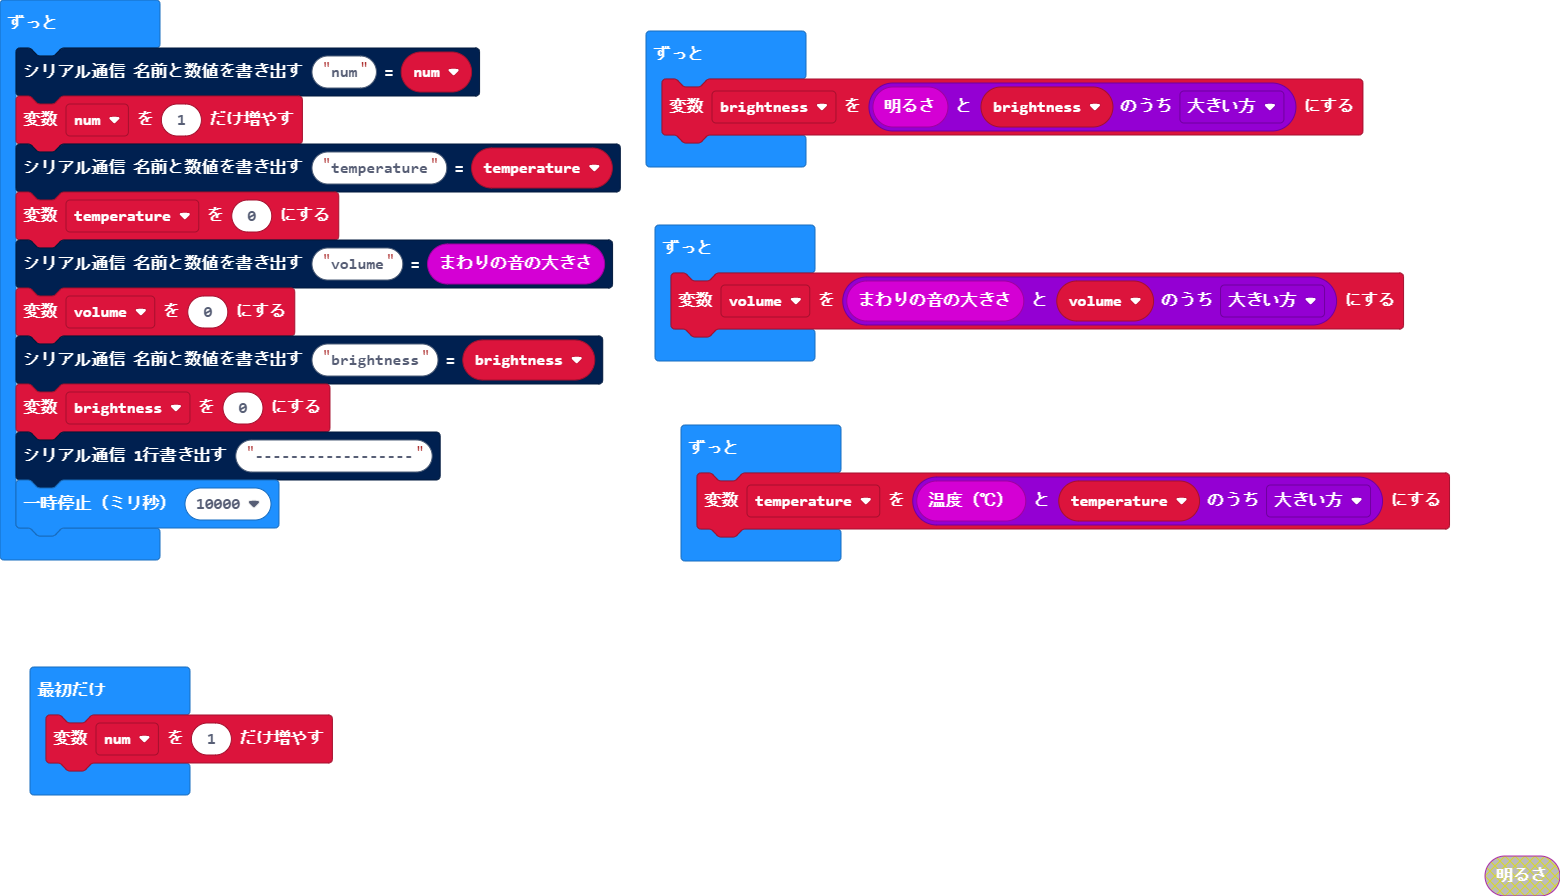
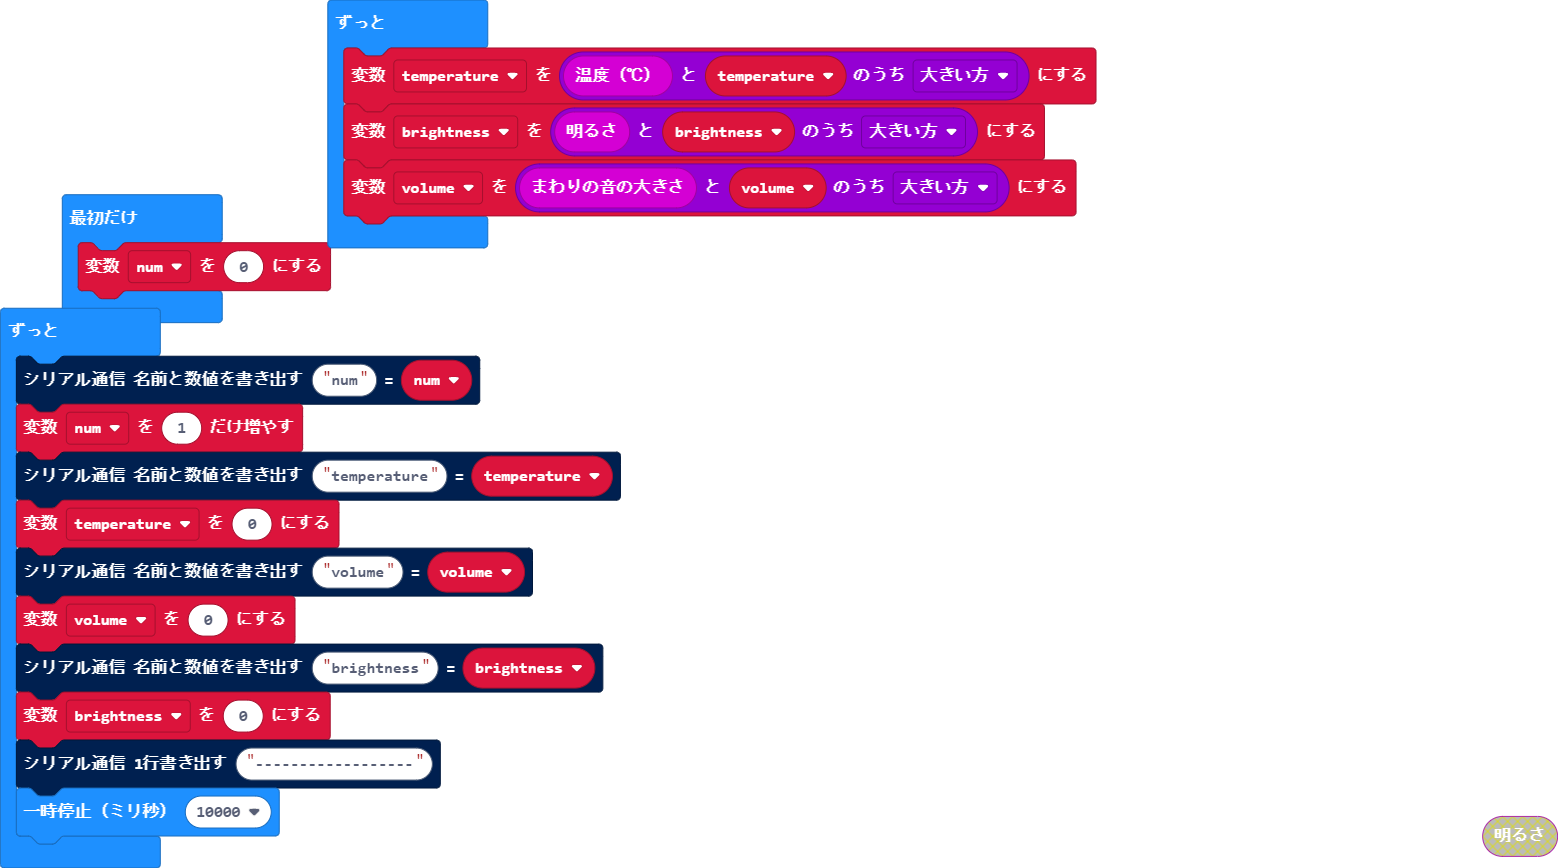
更新 main.blocks, main.ts, main.py

diff --git a/main.ts b/main.ts
@@ -1,26 +1,21 @@
-let brightness = 0
 let volume = 0
+let brightness = 0
 let temperature = 0
 let num = 0
-num += 1
+basic.forever(function () {
+    temperature = Math.max(input.temperature(), temperature)
+    brightness = Math.max(input.lightLevel(), brightness)
+    volume = Math.max(input.soundLevel(), volume)
+})
 basic.forever(function () {
     serial.writeValue("num", num)
     num += 1
     serial.writeValue("temperature", temperature)
     temperature = 0
-    serial.writeValue("volume", input.soundLevel())
+    serial.writeValue("volume", volume)
     volume = 0
     serial.writeValue("brightness", brightness)
     brightness = 0
     serial.writeLine("------------------")
     basic.pause(10000)
-})
-basic.forever(function () {
-    brightness = Math.max(input.lightLevel(), brightness)
-})
-basic.forever(function () {
-    volume = Math.max(input.soundLevel(), volume)
-})
-basic.forever(function () {
-    temperature = Math.max(input.temperature(), temperature)
 })

diff --git a/main.py b/main.py
@@ -1,25 +1,26 @@
+brightness = 0
 volume = 0
 temperature = 0
-brightness = 0
 num = 0
+num += 1
 
 def on_forever():
-    global brightness
-    brightness = max(input.light_level(), brightness)
-basic.forever(on_forever)
-
-def on_forever2():
-    global num, temperature, brightness, volume
+    global num, temperature, volume, brightness
     serial.write_value("num", num)
     num += 1
     serial.write_value("temperature", temperature)
     temperature = 0
-    serial.write_value("brightness", brightness)
-    brightness = 0
     serial.write_value("volume", input.sound_level())
     volume = 0
+    serial.write_value("brightness", brightness)
+    brightness = 0
     serial.write_line("------------------")
     basic.pause(10000)
+basic.forever(on_forever)
+
+def on_forever2():
+    global brightness
+    brightness = max(input.light_level(), brightness)
 basic.forever(on_forever2)
 
 def on_forever3():
